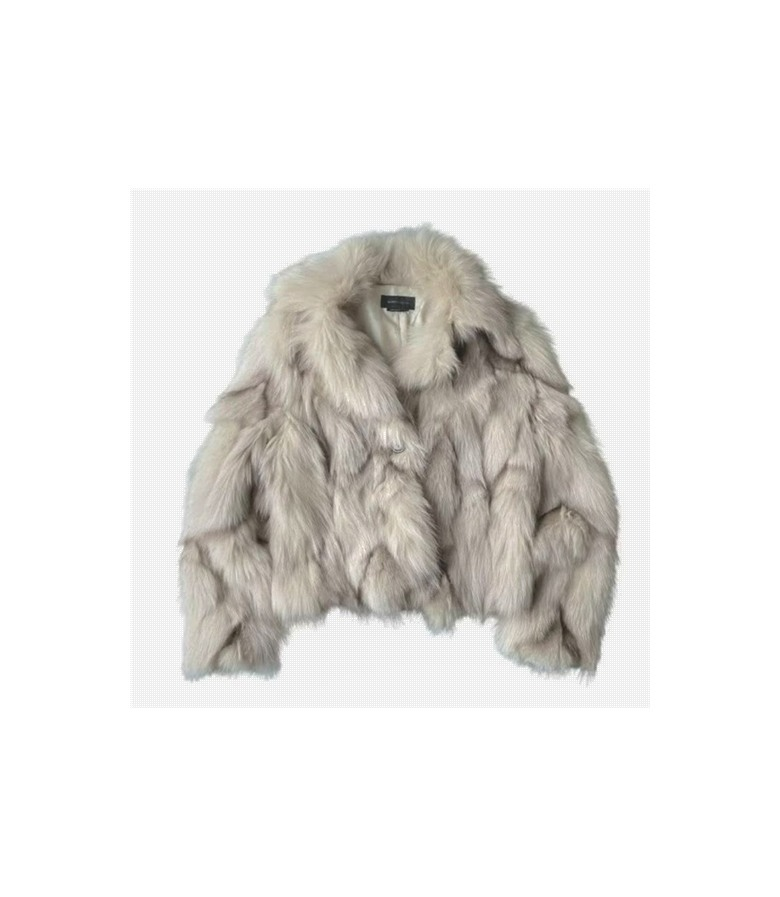
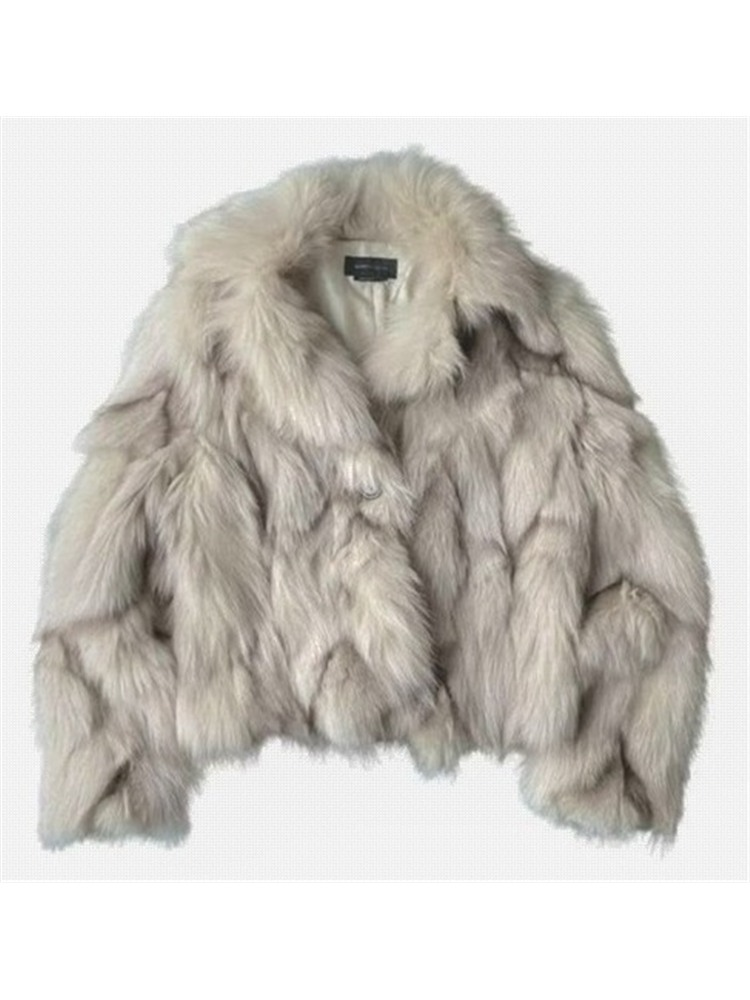
четвёртая карточка Верхняя одежда: кремовая меховая куртка-байкер (искусственный мех)

diff --git a/index.html b/index.html
@@ -378,7 +378,8 @@ h1, h2, h3, .serif { font-family: var(--font-serif); font-weight: 500; line-heig
 .category-card__photo img[src="skirt-velvet.jpg"] { object-fit: contain; }
 
 /* платья раздела «Платья»: вещь с полями, как на других карточках */
-.card__photo img[src="dress-corset.jpg"], .card__photo img[src="dress-volany.jpg"], .card__photo img[src="dress-shirt2.jpg"], .card__photo img[src="dress-shirt3.jpg"], .card__photo img[src="e14458e95252ee275c697a6ba4ade56c.jpg"], .card__photo img[src="dress-gorosh.jpg"], .card__photo img[src="dress-lux.jpg"], .card__photo img[src="dress-tux.jpg"], .card__photo img[src="dress-blue-mini.jpg"], .card__photo img[src="top-coquette.jpg"], .card__photo img[src="top-menthol.jpg"], .card__photo img[src="top-bluza.jpg"], .card__photo img[src="top-navy.jpg"], .card__photo img[src="top-mint2.jpg"], .card__photo img[src="top-volna.jpg"], .card__photo img[src="pants-denim.jpg"], img[src="pants-pink.jpg"], img[src="pants-navy.jpg"], img[src="pants-sky.jpg"], img[src="pants-black.jpg"], img[src="top-bow.jpg"], .card__photo img[src="top-mint2.jpg"], .card__photo img[src="top-broderie.jpg"], .card__photo img[src="top-white.jpg"], .card__photo img[src="top-white2.jpg"], .card__photo img[src="top-white3.jpg"], .card__photo img[src="top-broderie.jpg"], .card__photo img[src="skirt-ruffle.jpg"], .card__photo img[src="skirt-beige.jpg"], .card__photo img[src="skirt-plaid.jpg"], .card__photo img[src="skirt-lace.jpg"], .card__photo img[src="skirt-denim.jpg"], .card__photo img[src="skirt-coquette.jpg"], .card__photo img[src="skirt-puf.jpg"], .card__photo img[src="skirt-velvet.jpg"], .card__photo img[src="pants-denim.jpg"], img[src="pants-pink.jpg"], img[src="pants-navy.jpg"], img[src="pants-sky.jpg"], img[src="pants-black.jpg"], .card__photo img[src="pants-khaki.jpg"], .card__photo img[src="pants-gray.jpg"], .card__photo img[src="pants-polka-pink.jpg"], .card__photo img[src="pants-velvet-gray.jpg"], img[src="pants-satin-blue.jpg"] , img[src="outer-shearling.jpg"], img[src="outer-quilted.jpg"] { object-fit: contain; mix-blend-mode: multiply; }
+.card__photo img[src="dress-corset.jpg"], .card__photo img[src="dress-volany.jpg"], .card__photo img[src="dress-shirt2.jpg"], .card__photo img[src="dress-shirt3.jpg"], .card__photo img[src="e14458e95252ee275c697a6ba4ade56c.jpg"], .card__photo img[src="dress-gorosh.jpg"], .card__photo img[src="dress-lux.jpg"], .card__photo img[src="dress-tux.jpg"], .card__photo img[src="dress-blue-mini.jpg"], .card__photo img[src="top-coquette.jpg"], .card__photo img[src="top-menthol.jpg"], .card__photo img[src="top-bluza.jpg"], .card__photo img[src="top-navy.jpg"], .card__photo img[src="top-mint2.jpg"], .card__photo img[src="top-volna.jpg"], .card__photo img[src="pants-denim.jpg"], img[src="pants-pink.jpg"], img[src="pants-navy.jpg"], img[src="pants-sky.jpg"], img[src="pants-black.jpg"], img[src="top-bow.jpg"], .card__photo img[src="top-mint2.jpg"], .card__photo img[src="top-broderie.jpg"], .card__photo img[src="top-white.jpg"], .card__photo img[src="top-white2.jpg"], .card__photo img[src="top-white3.jpg"], .card__photo img[src="top-broderie.jpg"], .card__photo img[src="skirt-ruffle.jpg"], .card__photo img[src="skirt-beige.jpg"], .card__photo img[src="skirt-plaid.jpg"], .card__photo img[src="skirt-lace.jpg"], .card__photo img[src="skirt-denim.jpg"], .card__photo img[src="skirt-coquette.jpg"], .card__photo img[src="skirt-puf.jpg"], .card__photo img[src="skirt-velvet.jpg"], .card__photo img[src="pants-denim.jpg"], img[src="pants-pink.jpg"], img[src="pants-navy.jpg"], img[src="pants-sky.jpg"], img[src="pants-black.jpg"], .card__photo img[src="pants-khaki.jpg"], .card__photo img[src="pants-gray.jpg"], .card__photo img[src="pants-polka-pink.jpg"], .card__photo img[src="pants-velvet-gray.jpg"], img[src="pants-satin-blue.jpg"] , img[src="outer-shearling.jpg"], img[src="outer-quilted.jpg"] { object-fit: contain; mix-blend-mode: multiply;
+.card__photo img[src="outer-fur-biker.jpg"] { object-fit: contain; mix-blend-mode: multiply; } }
 
 /* Топы (главная категория): вещь целиком */
 .category-card__photo img[src="top-mint2.jpg"] { object-fit: contain; }
@@ -1336,7 +1337,7 @@ h1, h2, h3, .serif { font-family: var(--font-serif); font-weight: 500; line-heig
     tops:         { title: 'Топы',            base: 4900,  photos: { 0: 'top-coquette.jpg', 1: 'top-menthol.jpg', 2: 'top-volna.jpg', 3: 'top-bow.jpg', 4: 'top-white3.jpg', 5: 'top-navy.jpg', 6: 'top-mint2.jpg', 7: 'top-broderie.jpg' } },
     skirts:       { title: 'Юбки',            base: 8400,  photos: { 0: 'skirt-ruffle.jpg', 1: 'skirt-beige.jpg', 2: 'skirt-plaid.jpg', 3: 'skirt-lace.jpg', 4: 'skirt-coquette.jpg', 5: 'skirt-puf.jpg', 6: 'skirt-velvet.jpg', 7: 'skirt-denim.jpg' } },
     pants:        { title: 'Брюки',           base: 9900,  photos: { 0: 'pants-denim.jpg', 1: 'pants-khaki.jpg', 2: 'pants-black.jpg', 3: 'pants-polka-pink.jpg', 4: 'pants-velvet-gray.jpg', 5: 'pants-gray.jpg', 6: 'pants-sky.jpg', 7: 'pants-satin-blue.jpg' } },
-    outer:        { title: 'Верхняя одежда',  base: 34500,  photos: { 0: 'outer-shearling.jpg', 1: 'outer-fur-white.jpg', 2: 'outer-quilted.jpg' } },
+    outer:        { title: 'Верхняя одежда',  base: 34500,  photos: { 0: 'outer-shearling.jpg', 1: 'outer-fur-white.jpg', 2: 'outer-quilted.jpg', 3: 'outer-fur-biker.jpg' } },
     accessories:  { title: 'Аксессуары',      base: 3900  },
     home:         { title: 'Домашняя одежда', base: 6900  },
     suits:        { title: 'Костюмы',         base: 9500  }
@@ -1380,8 +1381,9 @@ h1, h2, h3, .serif { font-family: var(--font-serif); font-weight: 500; line-heig
     'pants:6': { name: 'Брюки клёш с высокой талией, голубые', meta: 'Хлопок · эластан', price: 5490 },
     'pants:7': { name: 'Брюки палаццо атласные, голубые', meta: 'Вискоза · шёлк', price: 7990 },
     'tops:6': { name: 'Мятный топ с кружевной вставкой', meta: 'Хлопок · кружево', price: 2990 },
+    'outer:3': { name: 'РњРµС…РѕРІР°СЏ РєСѓСЂС‚РєР°-Р±Р°Р№РєРµСЂ, РєСЂРµРјРѕРІР°СЏ', meta: 'РСЃРєСѓСЃСЃС‚РІРµРЅРЅС‹Р№ РјРµС… В· РІРёСЃРєРѕР·Р°', price: 11990 },
     'tops:7': { name: 'Топ-блуза с оборкой, белая', meta: 'Хлопок · поплин', price: 3290 },
-    'outer:1': { name: 'РњРµС…РѕРІР°СЏ РєСѓСЂС‚РєР°, Р±РµР»Р°СЏ', meta: 'РСЃРєСѓСЃСЃС‚РІРµРЅРЅС‹Р№ РјРµС… В· РІРёСЃРєРѕР·Р°', price: 12990 },
+    'outer:1': { name: 'Меховая куртка снежный лис, молочная', meta: 'Шерсть · Шёлк', price: 12990 },
     'skirts:0': { name: 'Юбка с рюшами, серо-белая', meta: 'Лен · поплин', price: 2990 },
     'skirts:1': { name: 'Юбка-миди с воланами, крем', meta: 'Вискоза · шифон', price: 4490 },
     'skirts:2': { name: 'Юбка-шотландка в клетку, серая', meta: 'Вискоза · шерсть', price: 3490 },
